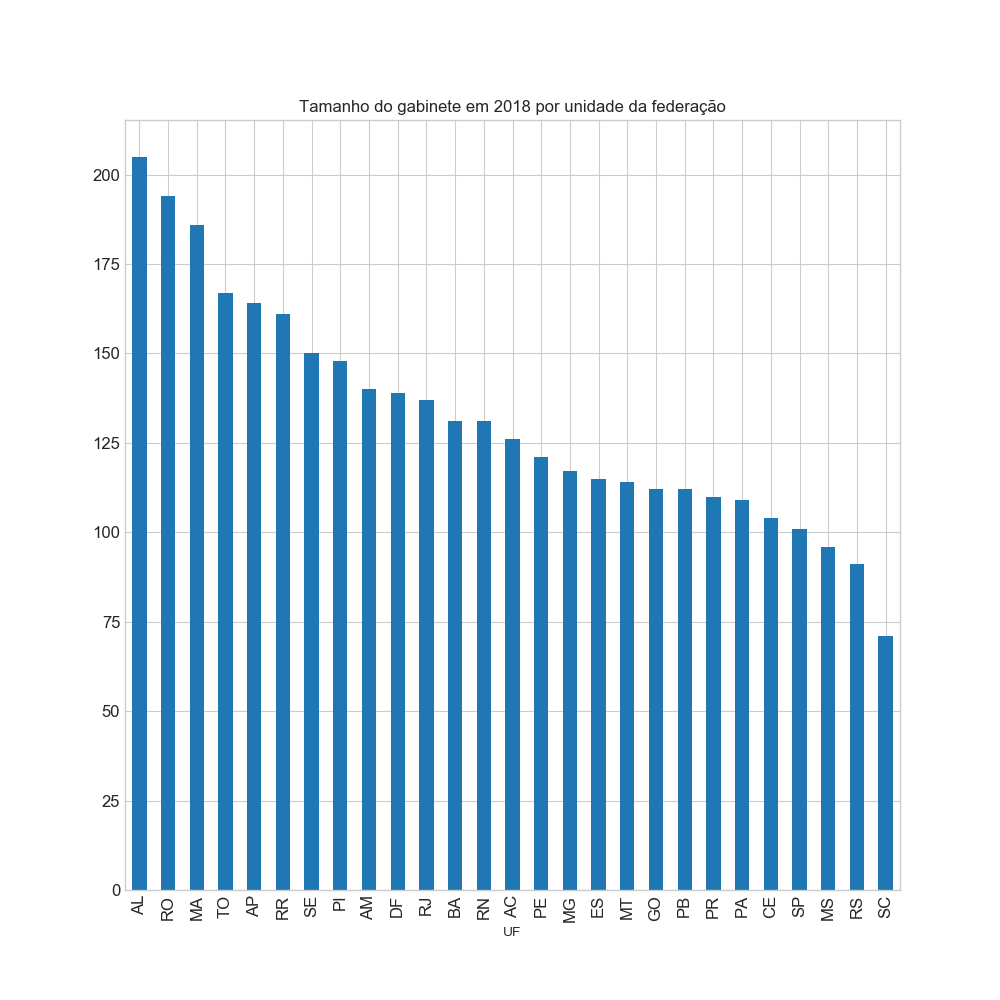
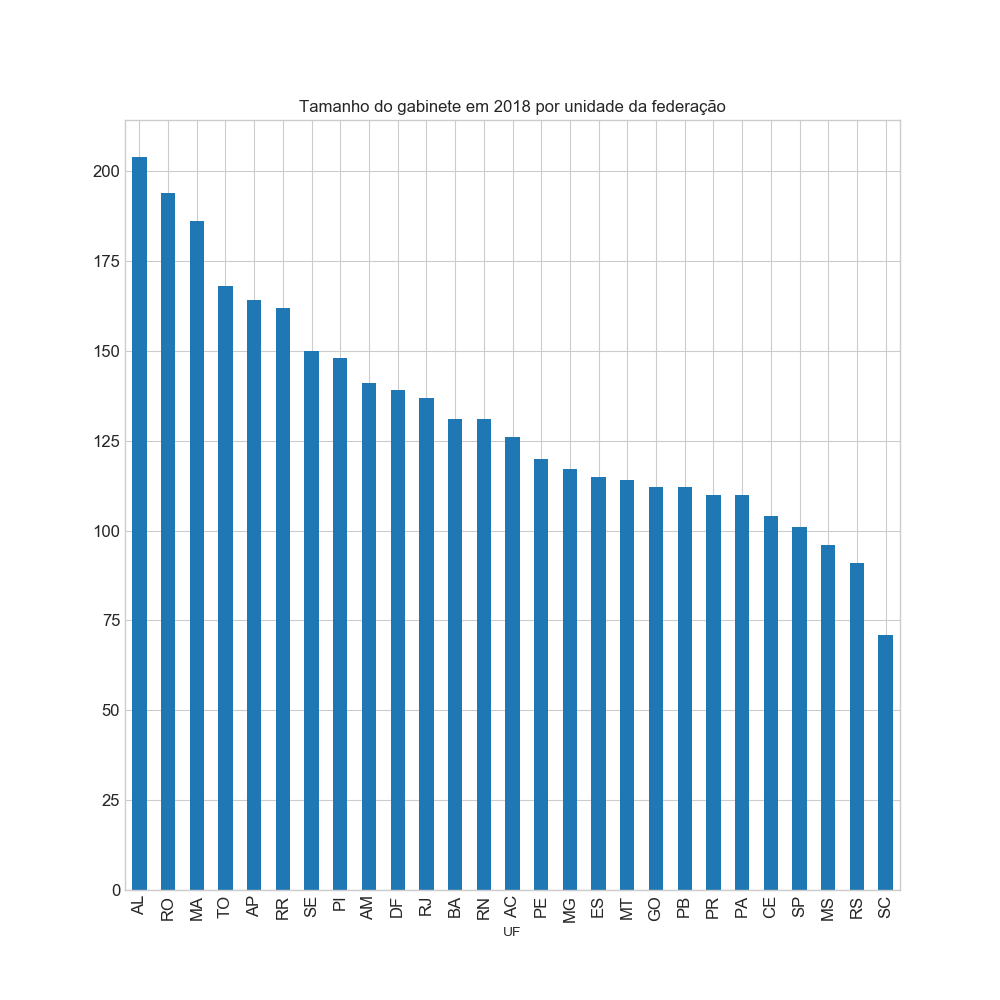
Atualização de dados do Senado

diff --git a/index.html b/index.html
@@ -31,7 +31,7 @@
 <!--Data-->       
 19/06/2018 às 
 <!--Hora-->
-02:11:42      </b><br></div>
+10:00:38      </b><br></div>
       <br>
       <div class="TextoImagem">
         <center>
@@ -207,7 +207,7 @@
               <td align='left'>1º Suplente</td>
               <td align='middle'>TO</td>
               <td align='left'>PSDB</td>
-              <td align='right'>50 pessoas</td>
+              <td align='right'>51 pessoas</td>
               <td align='right'>40 meses</td>
             </tr>
             <tr>
@@ -317,7 +317,7 @@
               <td align='left'>Titular</td>
               <td align='middle'>AM</td>
               <td align='left'>MDB</td>
-              <td align='right'>35 pessoas</td>
+              <td align='right'>36 pessoas</td>
               <td align='right'>26 meses</td>
             </tr>
             <tr>
@@ -372,7 +372,7 @@
               <td align='left'>Titular</td>
               <td align='middle'>PE</td>
               <td align='left'>MDB</td>
-              <td align='right'>37 pessoas</td>
+              <td align='right'>36 pessoas</td>
               <td align='right'>0 meses</td>
             </tr>
             <tr>
@@ -691,7 +691,7 @@
               <td align='left'>Titular</td>
               <td align='middle'>PA</td>
               <td align='left'>PT</td>
-              <td align='right'>47 pessoas</td>
+              <td align='right'>48 pessoas</td>
               <td align='right'>24 meses</td>
             </tr>
             <tr>
@@ -768,7 +768,7 @@
               <td align='left'>Titular</td>
               <td align='middle'>AL</td>
               <td align='left'>MDB</td>
-              <td align='right'>51 pessoas</td>
+              <td align='right'>50 pessoas</td>
               <td align='right'>40 meses</td>
             </tr>
             <tr>
@@ -878,7 +878,7 @@
               <td align='left'>2º Suplente</td>
               <td align='middle'>RR</td>
               <td align='left'>PV</td>
-              <td align='right'>55 pessoas</td>
+              <td align='right'>56 pessoas</td>
               <td align='right'>0 meses</td>
             </tr>
             <tr>
